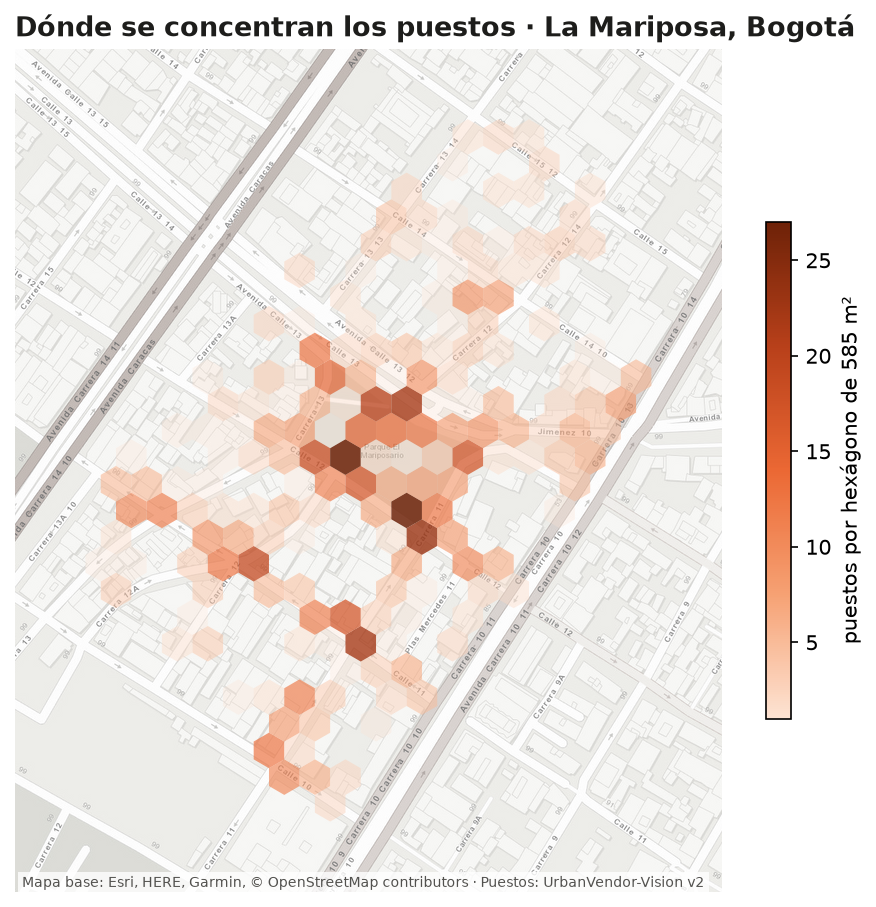
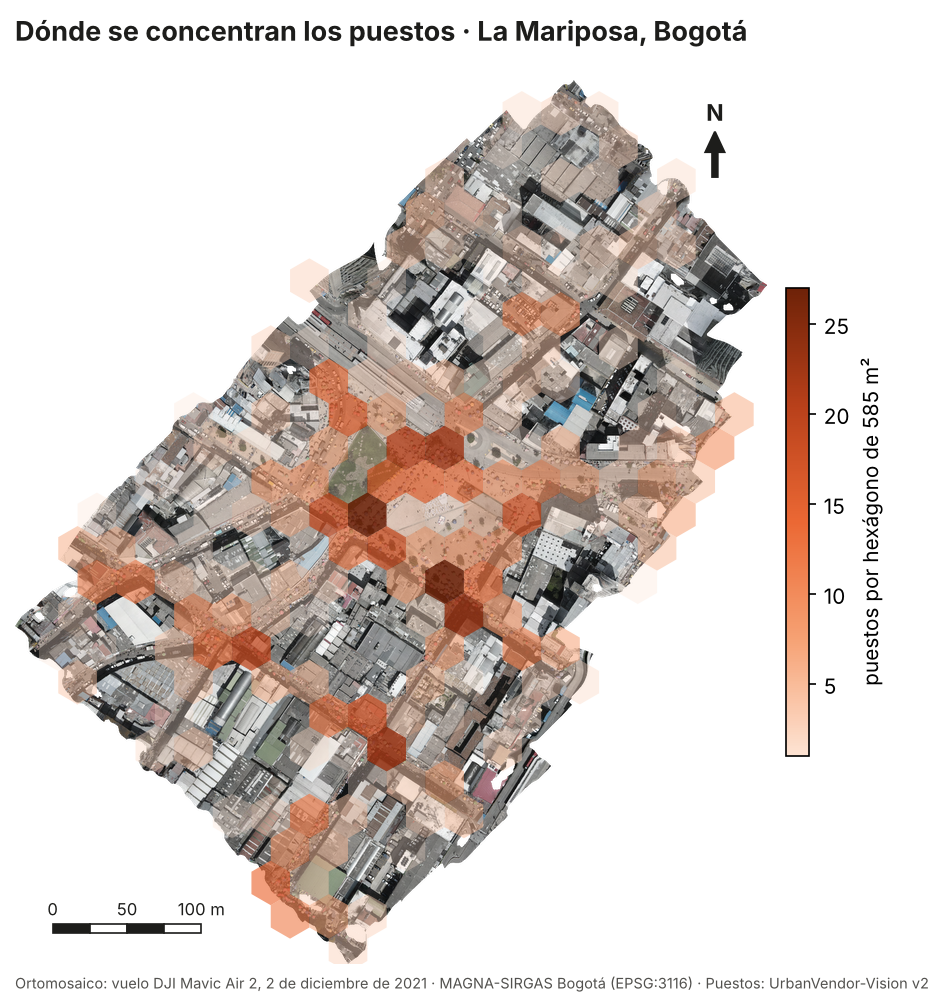
Mapa de densidad sobre el ortomosaico, con escala gráfica y norte
Incluye una copia del ortomosaico a 35 cm/píxel (3,2 MB) para que GitHub Actions
pueda regenerar el mapa.

Claude-Session: https://claude.ai/code/session_014sdL2qM8vaDp3XCVaNT1Dp

diff --git a/scripts/mapa_densidad.py b/scripts/mapa_densidad.py
@@ -1,66 +1,91 @@
-"""Mapa de densidad sobre el mapa de calles de Esri llevado a grises.
+"""Mapa de densidad de puestos sobre el ortomosaico, con escala gráfica y norte.
 
-Solo necesita el GeoJSON de hexágonos: lo genera GitHub Actions (`.github/workflows/mapa.yml`),
-que sí tiene acceso a las teselas del mapa base.
+El fondo es una copia liviana del ortomosaico (docs/base/la_mariposa_35cm.tif, 35 cm/píxel):
+el original de 3,45 cm pesa 1 GB y no cabe en el repositorio.
 
-python scripts/mapa_densidad.py --densidad resultados/densidad_la_mariposa_v2.geojson --salida docs/img/densidad.png
+python scripts/mapa_densidad.py --densidad resultados/densidad_la_mariposa_v2.geojson \
+       --fondo docs/base/la_mariposa_35cm.tif --salida docs/img/densidad.png
 """
 from __future__ import annotations
 
 import argparse
 
-import contextily as cx
 import geopandas as gpd
 import matplotlib.pyplot as plt
 import numpy as np
+import rasterio
 from matplotlib.colors import LinearSegmentedColormap
+from matplotlib.patches import FancyArrow, Rectangle
 
 TINTA = "#1d1d1b"
 NARANJA = ["#fde3d3", "#f6a173", "#eb6834", "#b8401a", "#6e2208"]
 
 
+def escala_grafica(ax, largo_m: float, x0: float, y0: float, alto_m: float, tramos: int = 4):
+    """Barra blanco/negro en unidades del mapa (metros), con caja de fondo y rótulos."""
+    paso = largo_m / tramos
+    pad = alto_m * 1.6
+    ax.add_patch(Rectangle((x0 - pad, y0 - pad * 1.1), largo_m + 2 * pad, alto_m + pad * 3.4,
+                           facecolor="white", alpha=0.85, edgecolor="none", zorder=5))
+    for i in range(tramos):
+        ax.add_patch(Rectangle((x0 + i * paso, y0), paso, alto_m, facecolor=TINTA if i % 2 == 0 else "white",
+                               edgecolor=TINTA, linewidth=0.8, zorder=6))
+    for i in (0, tramos // 2, tramos):
+        rot = f"{i * paso:.0f}" + (" m" if i == tramos else "")
+        ax.text(x0 + i * paso, y0 + alto_m * 1.5, rot, ha="center", va="bottom", fontsize=8, color=TINTA, zorder=6)
+
+
+def flecha_norte(ax, x: float, y: float, largo: float):
+    ax.add_patch(FancyArrow(x, y, 0, largo, width=largo * 0.12, head_width=largo * 0.42,
+                            head_length=largo * 0.45, length_includes_head=True, color=TINTA, zorder=6))
+    ax.text(x, y + largo * 1.12, "N", ha="center", va="bottom", fontsize=11, fontweight="bold", color=TINTA, zorder=6)
+
+
 def main():
     ap = argparse.ArgumentParser()
     ap.add_argument("--densidad", required=True)
+    ap.add_argument("--fondo", default="docs/base/la_mariposa_35cm.tif")
     ap.add_argument("--salida", default="docs/img/densidad.png")
-    ap.add_argument("--margen", type=float, default=60.0, help="metros alrededor de los hexágonos")
+    ap.add_argument("--color-fondo", type=float, default=0.55, help="0 = gris, 1 = color original")
     a = ap.parse_args()
 
-    hx = gpd.read_file(a.densidad)
-    hx = hx[hx["puestos"] > 0].to_crs(3857)
-    xmin, ymin, xmax, ymax = hx.total_bounds
-    m = a.margen
+    with rasterio.open(a.fondo) as src:
+        img = src.read().astype(float)
+        b = src.bounds
+        crs = src.crs
+    rgb = img[:3].transpose(1, 2, 0)
+    gris = rgb.mean(-1, keepdims=True)
+    rgb = a.color_fondo * rgb + (1 - a.color_fondo) * gris   # algo apagado: el color fuerte es de los datos
+    rgba = np.dstack([rgb.clip(0, 255) / 255, img[3] / 255])
 
-    fig, ax = plt.subplots(figsize=(7.6, 8.6))
-    ax.set_xlim(xmin - m, xmax + m)
-    ax.set_ylim(ymin - m, ymax + m)
+    hx = gpd.read_file(a.densidad).to_crs(crs)
+    hx = hx[hx["puestos"] > 0]
+
+    fig, ax = plt.subplots(figsize=(7.8, 9.0))
+    ax.imshow(rgba, extent=(b.left, b.right, b.bottom, b.top), zorder=1, interpolation="lanczos")
+
+    # Opacidad creciente con la densidad: lo poco denso deja ver el terreno, los focos quedan sólidos
     cmap = LinearSegmentedColormap.from_list("naranja", NARANJA)
-    # Opacidad creciente con la densidad: lo poco denso deja ver la calle, los focos quedan sólidos
-    vmax = float(hx["puestos"].max())
-    norm = plt.Normalize(vmin=1, vmax=vmax)
+    norm = plt.Normalize(vmin=1, vmax=float(hx["puestos"].max()))
     t = norm(hx["puestos"].to_numpy())
     colores = cmap(t)
     colores[:, 3] = 0.30 + 0.55 * np.sqrt(t)
     hx.plot(ax=ax, color=colores, edgecolor="none", linewidth=0, zorder=2)
-    sm = plt.cm.ScalarMappable(norm=norm, cmap=cmap)
-    fig.colorbar(sm, ax=ax, shrink=0.5, label="puestos por hexágono de 585 m²")
-    img, ext = cx.bounds2img(xmin - m, ymin - m, xmax + m, ymax + m, zoom=18,
-                             source=cx.providers.Esri.WorldStreetMap)
-    rgb = img[..., :3].astype(float)
-    if rgb.std() < 8 or (rgb.mean(-1) > 245).mean() > 0.97:
-        raise SystemExit("El servidor del mapa base devolvió teselas vacías o de error: no se publica la figura.")
-    gris = rgb.mean(-1, keepdims=True)
-    base = 0.15 * rgb + 0.85 * gris            # casi sin color: el color es de los datos
-    base = 255 - (255 - base) * 0.75           # más claro
-    ax.imshow(base.clip(0, 255).astype(np.uint8), extent=ext, zorder=1, interpolation="lanczos")
-    ax.set_xlim(xmin - m, xmax + m)
-    ax.set_ylim(ymin - m, ymax + m)
+    fig.colorbar(plt.cm.ScalarMappable(norm=norm, cmap=cmap), ax=ax, shrink=0.45, pad=0.02,
+                 label="puestos por hexágono de 585 m²")
+
+    ancho = b.right - b.left
+    largo = 100 if ancho > 300 else 50
+    escala_grafica(ax, largo, b.left + 0.05 * ancho, b.bottom + 0.035 * (b.top - b.bottom), alto_m=ancho * 0.012)
+    flecha_norte(ax, b.right - 0.07 * ancho, b.top - 0.11 * (b.top - b.bottom), largo=ancho * 0.06)
+
+    ax.set_xlim(b.left, b.right)
+    ax.set_ylim(b.bottom, b.top)
     ax.set_axis_off()
     ax.set_title("Dónde se concentran los puestos · La Mariposa, Bogotá", loc="left", fontsize=13,
                  fontweight="bold", color=TINTA)
-    ax.text(0.01, 0.006, "Mapa base: Esri, HERE, Garmin, © OpenStreetMap contributors · Puestos: UrbanVendor-Vision v2",
-            transform=ax.transAxes, fontsize=6.5, color="#52514e", zorder=4,
-            bbox=dict(facecolor="white", alpha=0.8, edgecolor="none", pad=2))
+    ax.text(0.0, -0.012, "Ortomosaico: vuelo DJI Mavic Air 2, 2 de diciembre de 2021 · MAGNA-SIRGAS Bogotá (EPSG:3116)"
+            " · Puestos: UrbanVendor-Vision v2", transform=ax.transAxes, fontsize=7, color="#52514e", va="top")
     fig.savefig(a.salida, dpi=150, bbox_inches="tight", facecolor="white")
 
 

diff --git a/scripts/figuras.py b/scripts/figuras.py
@@ -1,7 +1,7 @@
 """Figuras del README a partir de la ortofoto y los GeoJSON (no necesita los pesos).
 
 python scripts/figuras.py --orto la_mariposa.png --v1 puestos_v1.geojson --v2 puestos_v2.geojson \
-       --densidad densidad_v2.geojson --salida docs/img
+       --salida docs/img  (el mapa de densidad lo hace scripts/mapa_densidad.py)
 """
 from __future__ import annotations
 
@@ -84,33 +84,11 @@ def escala(src, v2, salida, gsd_raster, gsd_modelo, lienzo=400):
     plt.close(fig)
 
 
-def mapa_densidad(src, hexes, salida, red=14):
-    w, h = src.width // red, src.height // red
-    base = leer(src, 0, 0, src.width, src.height, out=(h, w)).astype(float)
-    gris = base.mean(-1, keepdims=True)
-    base = (0.35 * base + 0.65 * gris) * 0.9 + 25
-    alfa = src.read(4, out_shape=(h, w), resampling=Resampling.nearest) if src.count >= 4 else np.full((h, w), 255)
-    base[alfa == 0] = 255
-    b = src.bounds
-    fig, ax = plt.subplots(figsize=(7.2, 8.4))
-    ax.imshow(base.clip(0, 255).astype(np.uint8), extent=(b.left, b.right, b.bottom, b.top))
-    cmap = LinearSegmentedColormap.from_list("naranja", ["#fde3d3", "#f6a173", NARANJA, "#b8401a", "#6e2208"])
-    hx = hexes[hexes["puestos"] > 0]
-    hx.plot(ax=ax, column="puestos", cmap=cmap, alpha=0.85, edgecolor="none", linewidth=0,
-            legend=True, legend_kwds={"label": "puestos por hexágono de 585 m²", "shrink": 0.55})
-    ax.set_axis_off()
-    ax.set_title("Dónde se concentran los puestos · La Mariposa", loc="left", fontsize=13,
-                 fontweight="bold", color=TINTA)
-    fig.savefig(salida, dpi=150, bbox_inches="tight", facecolor="white")
-    plt.close(fig)
-
-
 def main():
     ap = argparse.ArgumentParser()
     ap.add_argument("--orto", required=True)
     ap.add_argument("--v1", required=True)
     ap.add_argument("--v2", required=True)
-    ap.add_argument("--densidad", required=True)
     ap.add_argument("--salida", default="docs/img")
     ap.add_argument("--recorte", type=int, nargs=3, default=[5230, 14168, 1200], help="col fila lado")
     ap.add_argument("--gsd-modelo", type=float, default=0.1065)
@@ -121,7 +99,6 @@ def main():
         v1, v2 = gpd.read_file(a.v1).to_crs(src.crs), gpd.read_file(a.v2).to_crs(src.crs)
         antes_despues(src, v1, v2, *a.recorte, out / "antes_despues.jpg")
         escala(src, v2, out / "escala.png", abs(src.res[0]), a.gsd_modelo)
-        mapa_densidad(src, gpd.read_file(a.densidad).to_crs(src.crs), out / "densidad.png")
 
 
 if __name__ == "__main__":

diff --git a/README.md b/README.md
@@ -20,7 +20,7 @@ Caso de estudio: sector de **La Mariposa**, centro de Bogotá. Vuelo con DJI Mav
 - La mitad de los puestos ocupa **32 hexágonos**, que suman **1 ha + 8706 m²**. En el más denso hay **27 puestos** en 585 m².
 - La capa está en [`resultados/puestos_la_mariposa_v2.geojson`](resultados/puestos_la_mariposa_v2.geojson) (EPSG:3116). Cada polígono trae su confianza, área y diámetro. La densidad por hexágono está en [`resultados/densidad_la_mariposa_v2.geojson`](resultados/densidad_la_mariposa_v2.geojson).
 
-<p align="center"><img src="docs/img/densidad.png" width="560" alt="Mapa de hexágonos sobre la ortofoto: la mayor densidad está alrededor de la plaza y en las calles que salen de ella"></p>
+<p align="center"><img src="docs/img/densidad.png" width="560" alt="Mapa de hexágonos sobre el ortomosaico, con escala y norte: la mayor densidad está alrededor del Parque La Mariposa y en las calles que salen de él"></p>
 
 ## Qué fallaba en la versión 1
 
@@ -84,7 +84,9 @@ src/urbanvendor/
   datos.py      Labelme -> YOLO-seg en teselas nativas, zonas por distancia, pliegues
   evaluar.py    emparejamiento IoU, precisión/recall, control de fugas por distancia
 notebooks/entrenar_v2_colab.ipynb   re-entrenamiento con validación cruzada por zona (T4)
-scripts/figuras.py                  figuras de este README desde la ortofoto y los GeoJSON
+scripts/figuras.py                  antes/después y escala, desde la ortofoto y los GeoJSON
+scripts/mapa_densidad.py            mapa de densidad sobre el ortomosaico (lo regenera GitHub Actions)
+docs/base/la_mariposa_35cm.tif      copia liviana del ortomosaico (35 cm/píxel) para el mapa
 tests/                              11 pruebas sobre una ortofoto sintética y casos de borde
 ```
 
